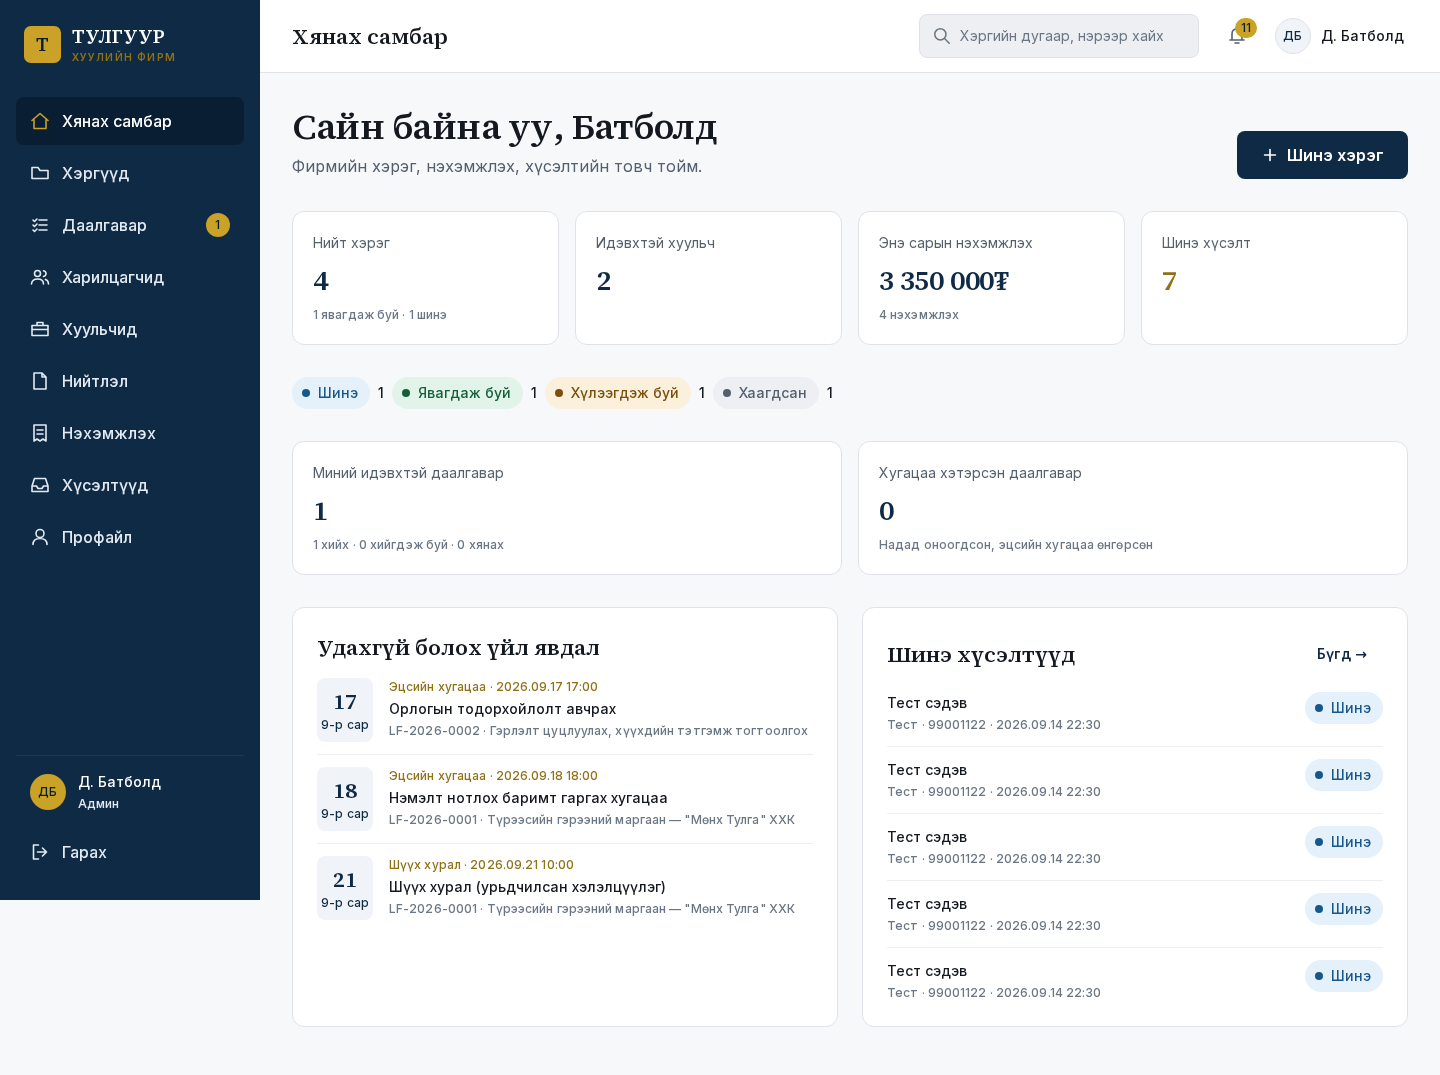
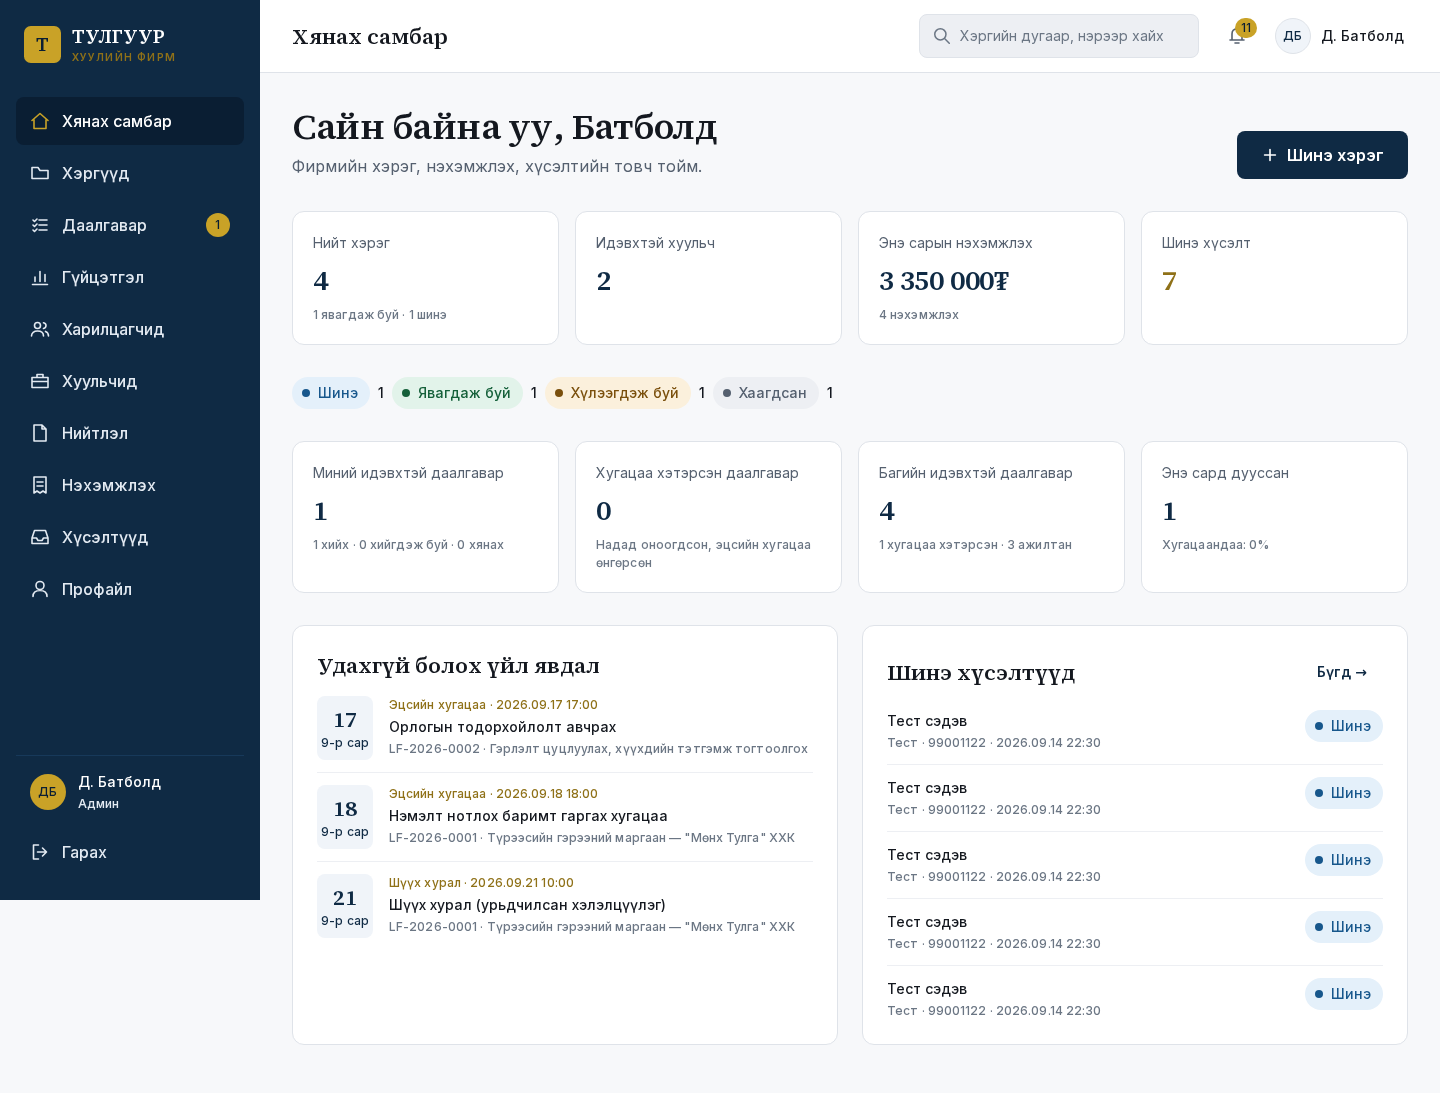
docs+test: performance module — README, e2e, screenshots
README section 10 (principle, scope rules, metric definitions, endpoints,
UI). Playwright: ADMIN sees every active lawyer; a lawyer sees their own row
and seeded teammate but not a freshly created lawyer, whose detail page and
API answer 403; switching the period tab updates the URL and the overview
numbers match the API for that period. Screenshots for the performance page
and a person's detail; admin baselines now include the sidebar item and the
dashboard team tiles.

Claude-Session: https://claude.ai/code/session_01CvyuQB166igy1ds2wLy2Ew

diff --git a/apps/web/e2e/performance.spec.ts b/apps/web/e2e/performance.spec.ts
@@ -1,0 +1,87 @@
+import { type APIRequestContext, type Page, expect, test } from '@playwright/test';
+import { ADMIN, LAWYER1, apiAs, login } from './fixtures';
+
+const uniqueId = () => Date.now().toString(36);
+type Row = { user: { id: string; firstName: string; lastName: string }; isSelf: boolean };
+const displayName = (user: { firstName: string; lastName: string }) => `${user.lastName.charAt(0)}. ${user.firstName}`;
+const byUser = async (api: APIRequestContext, period = 'this-month') =>
+  ((await (await api.get(`/performance/by-user?period=${period}`)).json()) as { items: Row[] }).items;
+const tableNames = (page: Page) => page.getByRole('table').locator('tbody tr td:first-child a');
+/** The big number of an overview tile, found through its label. */
+const tile = (page: Page, label: string) => page.getByRole('region', { name: 'Тойм' }).getByText(label, { exact: true }).locator('xpath=..').locator('.font-serif');
+
+test.describe('Гүйцэтгэл', () => {
+  test('ADMIN /admin/performance дээр бүх идэвхтэй хуульч, админыг харна', async ({ page }) => {
+    const adminApi = await apiAs(ADMIN);
+    const lawyers = ((await (await adminApi.get('/users?role=LAWYER&isActive=true&limit=100')).json()) as { items: { firstName: string; lastName: string }[] }).items;
+    await adminApi.dispose();
+
+    await login(page, ADMIN);
+    await expect(page.getByRole('link', { name: 'Гүйцэтгэл', exact: true })).toBeVisible();
+    await page.getByRole('link', { name: 'Гүйцэтгэл', exact: true }).click();
+    await expect(page.getByRole('heading', { name: 'Гүйцэтгэл', level: 2 })).toBeVisible();
+    await expect(tableNames(page).first()).toBeVisible();
+
+    const names = await tableNames(page).allInnerTexts();
+    for (const lawyer of lawyers) expect(names).toContain(displayName(lawyer));
+    expect(names.filter((name) => name.endsWith('(Та)'))).toHaveLength(1);
+  });
+
+  test('LAWYER зөвхөн өөрийгөө болон багийн хамтрагчдаа харж, багийн бус хүний дэлгэрэнгүй рүү 403 авна', async ({ page }) => {
+    const adminApi = await apiAs(ADMIN);
+    const lawyerApi = await apiAs(LAWYER1);
+    const id = uniqueId();
+    const created = await adminApi.post('/users', {
+      data: { email: `e2e.perf.${id}@lawfirm.mn`, firstName: 'Гүйцэтгэл', lastName: `Шинэ${id}`, role: 'LAWYER', password: 'Lawyer123!' },
+    });
+    expect(created.status()).toBe(201);
+    const outsider = (await created.json()) as { id?: string; user?: { id: string } };
+    const outsiderId = outsider.user?.id ?? outsider.id!;
+
+    try {
+      const visible = await byUser(lawyerApi);
+      const self = visible.find((row) => row.isSelf)!;
+      expect(visible.map((row) => row.user.id)).not.toContain(outsiderId);
+      expect((await byUser(adminApi)).map((row) => row.user.id)).toContain(outsiderId);
+
+      await login(page, LAWYER1);
+      await page.goto('/admin/performance');
+      await expect(page.getByRole('heading', { name: 'Миний болон багийн гүйцэтгэл', level: 2 })).toBeVisible();
+      await expect(tableNames(page).first()).toBeVisible();
+      // Other specs may add or remove teammates while this runs, so only stable facts are checked here:
+      // the lawyer's own row, the seeded teammate (admin on LF-…-0001) and the brand-new lawyer who shares no case.
+      const names = await tableNames(page).allInnerTexts();
+      expect(names).toContain(`${displayName(self.user)} (Та)`);
+      const seededTeammate = visible.find((row) => !row.isSelf && row.user.firstName === 'Батболд');
+      if (seededTeammate) expect(names).toContain(displayName(seededTeammate.user));
+      expect(names).not.toContain(`Ш. Гүйцэтгэл`);
+
+      await page.goto(`/admin/performance/${outsiderId}`);
+      await expect(page.getByRole('alert').filter({ hasText: '403' })).toContainText('Энэ ажилтны гүйцэтгэлийг харах эрх танд байхгүй');
+      expect((await lawyerApi.get(`/performance/user/${outsiderId}`)).status()).toBe(403);
+      expect((await lawyerApi.get(`/performance/timeline?userId=${outsiderId}`)).status()).toBe(403);
+    } finally {
+      await adminApi.patch(`/users/${outsiderId}`, { data: { isActive: false } });
+      await Promise.all([adminApi.dispose(), lawyerApi.dispose()]);
+    }
+  });
+
+  test('хугацааны шүүлт солиход URL болон тоо тухайн хүрээнийх болж шинэчлэгдэнэ', async ({ page }) => {
+    const lawyerApi = await apiAs(LAWYER1);
+    const overview = async (period: string) => ((await (await lawyerApi.get(`/performance/overview?period=${period}`)).json()) as { completedTasks: number; activeTasks: number });
+
+    await login(page, LAWYER1);
+    await page.goto('/admin/performance');
+    await expect(tile(page, 'Идэвхтэй даалгавар')).toHaveText(String((await overview('this-month')).activeTasks));
+    await expect(tile(page, 'Дууссан')).toHaveText(String((await overview('this-month')).completedTasks));
+
+    for (const [label, period, unit] of [['Бүх цаг', 'all-time', 'сараар'], ['Сүүлийн 30 хоног', 'last-30-days', 'өдрөөр']] as const) {
+      await page.getByRole('tab', { name: label }).click();
+      await expect(page).toHaveURL(new RegExp(`period=${period}`));
+      await expect(page.getByRole('tab', { name: label, selected: true })).toBeVisible();
+      await expect(tile(page, 'Дууссан')).toHaveText(String((await overview(period)).completedTasks));
+      await expect(page.locator('figcaption').filter({ hasText: `Дууссан даалгавар ${unit}` })).toBeVisible();
+    }
+    await lawyerApi.dispose();
+  });
+});

diff --git a/apps/web/e2e/screenshots.spec.ts b/apps/web/e2e/screenshots.spec.ts
@@ -37,6 +37,7 @@ const ADMIN_PAGES: [string, string][] = [
   ['admin-tasks', '/admin/tasks'],
   ['admin-tasks-board', '/admin/tasks?view=board'],
   ['admin-notifications', '/admin/notifications'],
+  ['admin-performance', '/admin/performance'],
   ['admin-case-new', '/admin/cases/new'],
   ['admin-clients', '/admin/clients'],
   ['admin-lawyers', '/admin/lawyers'],
@@ -137,5 +138,13 @@ test.describe('screenshots', () => {
     await page.getByRole('menu', { name: 'Сүүлийн мэдэгдлүүд' }).waitFor();
     await page.waitForTimeout(1200);
     await page.screenshot({ path: `screenshots/admin-notification-bell.${suffix}.png` });
+    await page.keyboard.press('Escape');
+    await page.goto('/admin/performance', { waitUntil: 'load' });
+    const person = page.locator('a[href^="/admin/performance/"]:visible').first();
+    await person.waitFor();
+    await person.click();
+    await page.waitForURL(/\/admin\/performance\/[0-9a-f-]{36}/);
+    await page.waitForTimeout(1500);
+    await page.screenshot({ path: `screenshots/admin-performance-detail.${suffix}.png`, fullPage: true });
   });
 });
